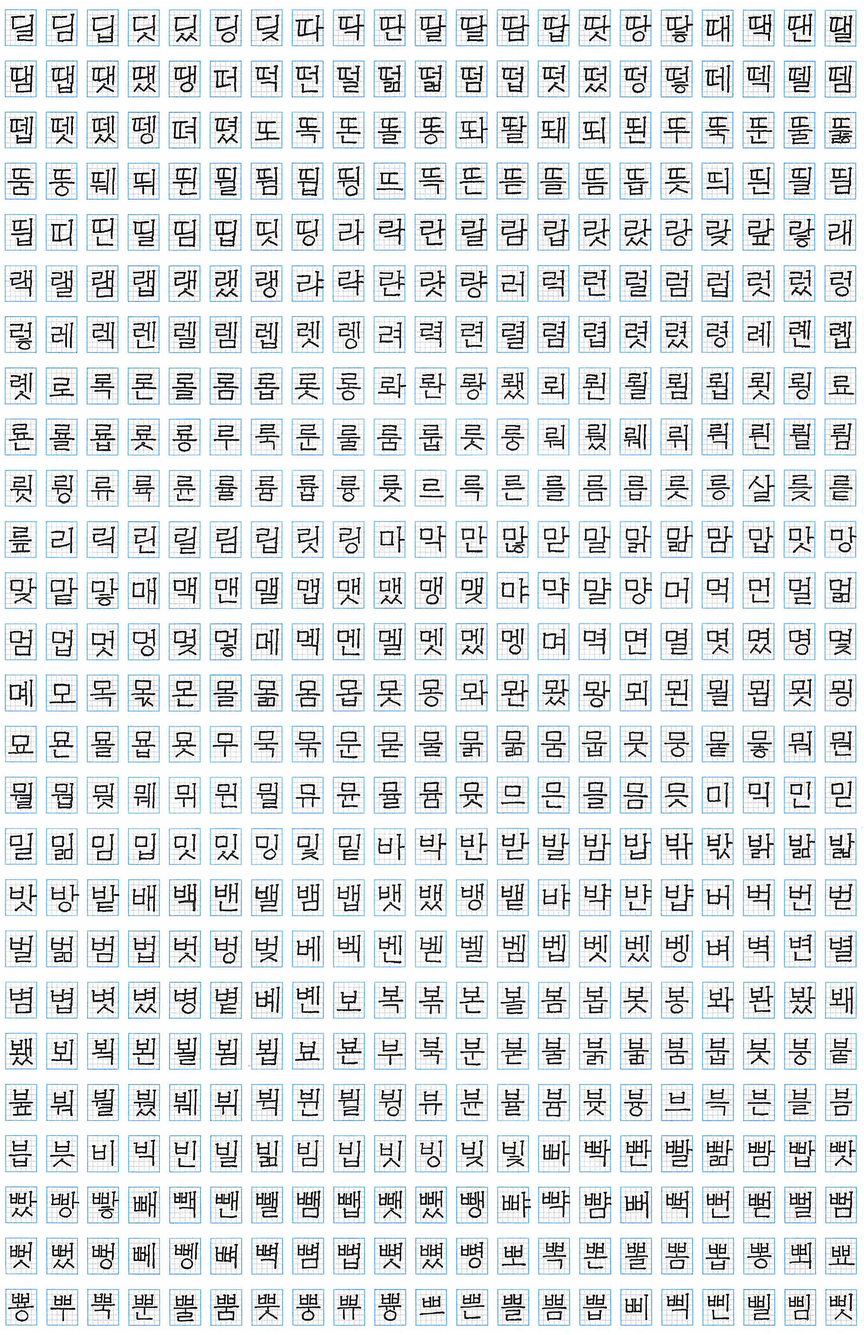
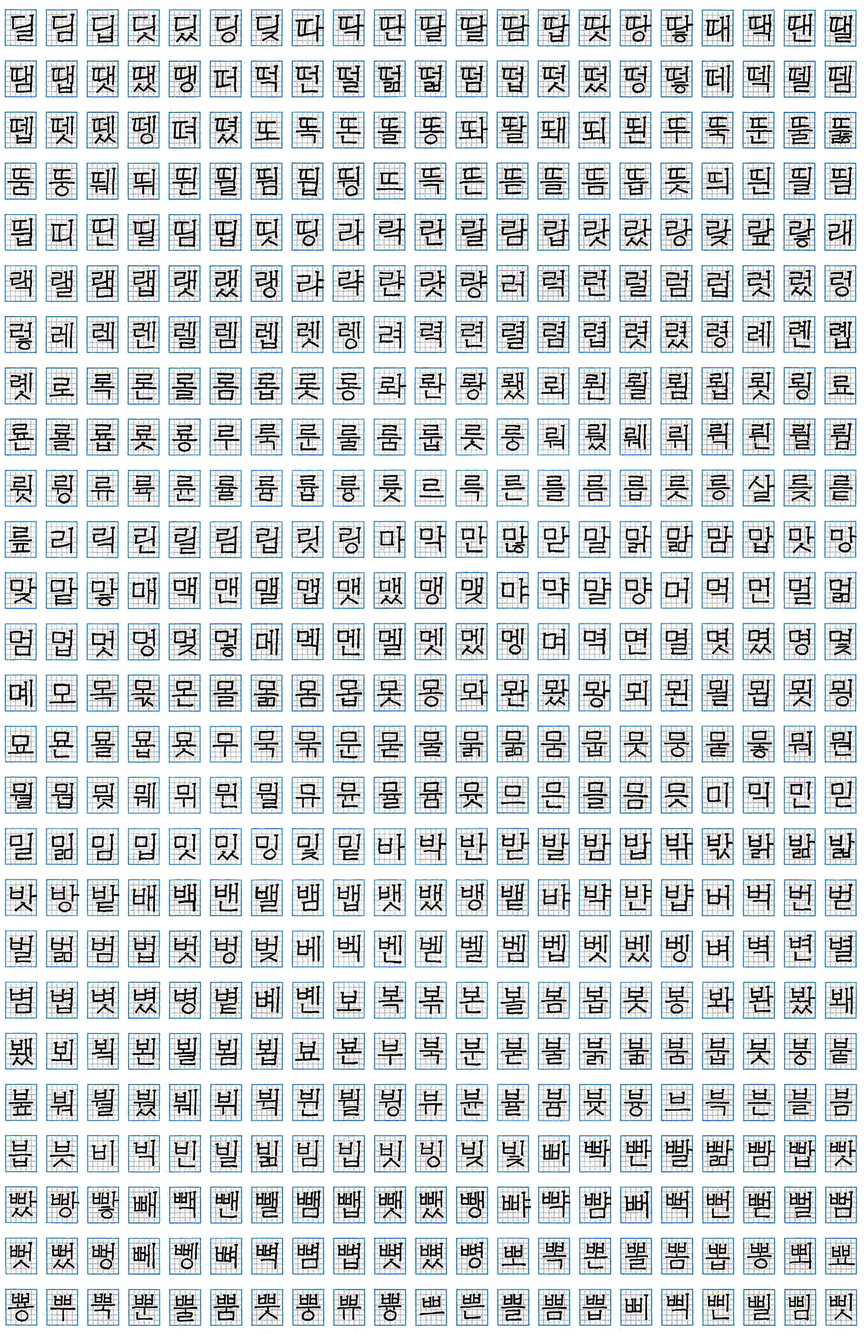
Rename, Design: 인쇄 화질 개선

Changed region(s): [[0.0, 0.0, 0.9975, 0.9997]]

diff --git a/style.scss b/style.scss
@@ -114,6 +114,7 @@ main {
       font-size: 0;
       vertical-align: top;
       max-width: 200mm;
+      filter: contrast(110%);
       .word {
         overflow: hidden;
       }
@@ -139,6 +140,7 @@ main {
   }
 	header, main #functions, #view > label, #view > textarea { display:none };
   main #view #printFont {
+    filter: none;
     border: none;
     width: 200mm;
     padding: 0;

diff --git a/css/style.css b/css/style.css
@@ -115,6 +115,7 @@ main #view #printFont {
   font-size: 0;
   vertical-align: top;
   max-width: 200mm;
+  filter: contrast(110%);
 }
 main #view #printFont .word {
   overflow: hidden;
@@ -141,6 +142,7 @@ main #view #printFont .no-font > div {
     display: none;
   }
   main #view #printFont {
+    filter: none;
     border: none;
     width: 200mm;
     padding: 0;
